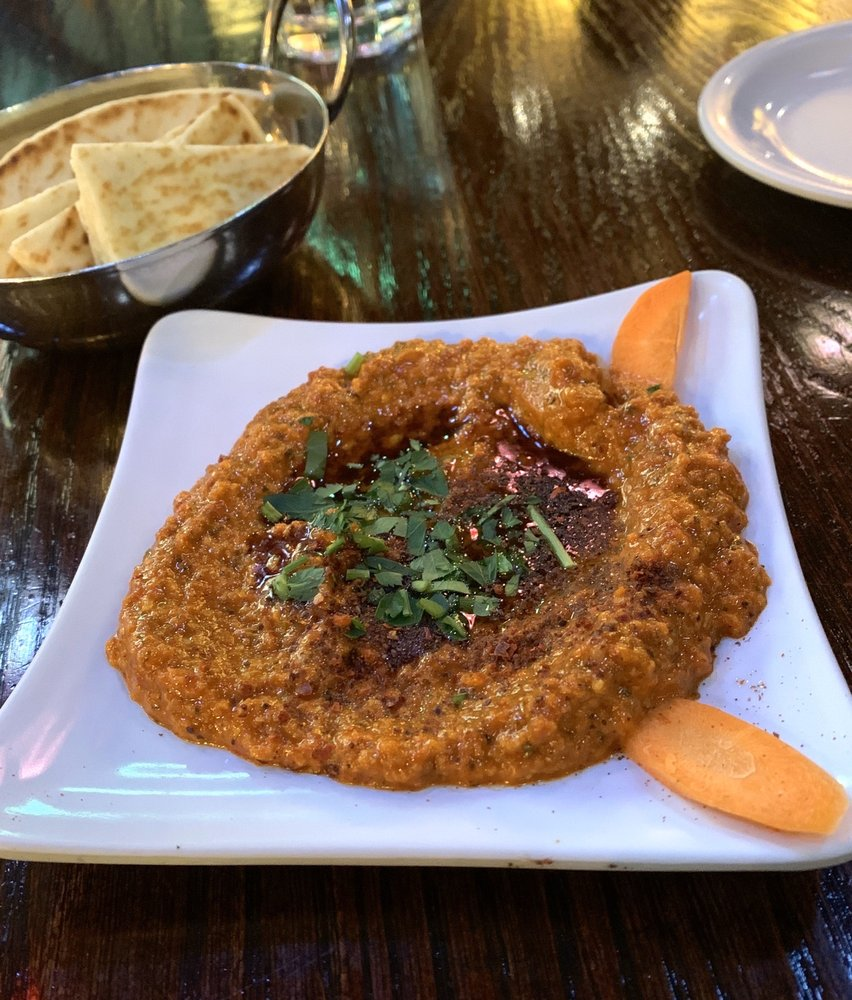
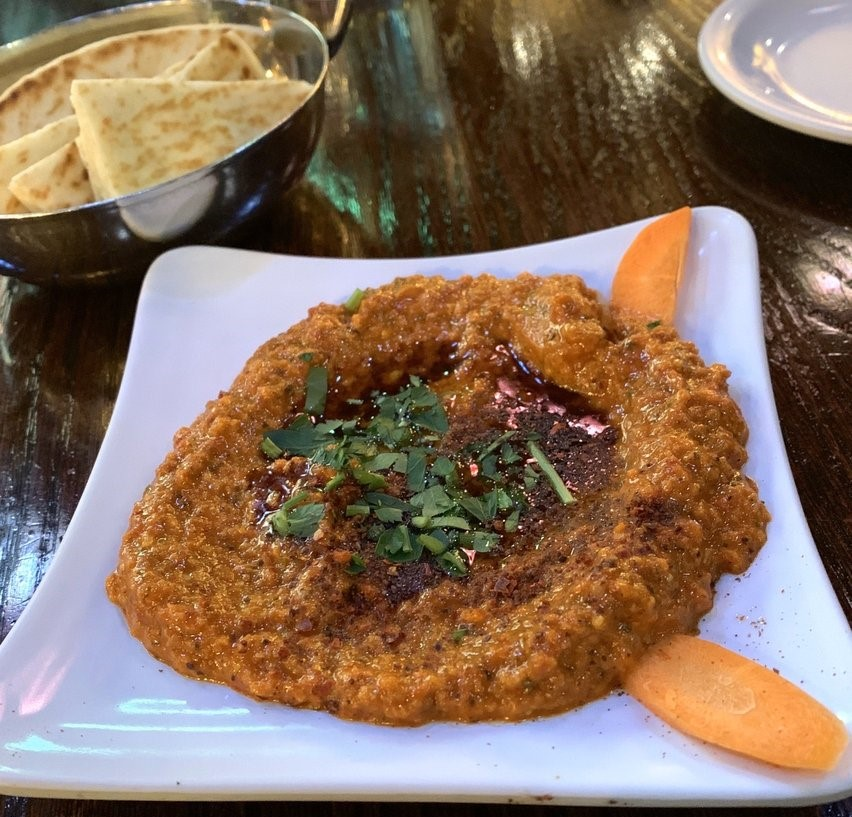
added images and bookmark button

diff --git a/app.js b/app.js
@@ -7,21 +7,21 @@ let allFavorites = [];
 // array for all the restaurant objects
 let allRestaurants = [
 // using constructor functions to create restaurants
-new Restaurant ("Shiro\'s", "Japanese", "2401 2nd Ave. Seattle, WA 98121", ['vegan', 'vegetarian'], 'Any'),
-new Restaurant ("Ishoni Yakiniku", "Japanese", "2401 2nd Ave. Seattle, WA 98121", ['vegan', 'vegetarian', 'gluten-free'], 'Any'),
-new Restaurant ("Kizuki Ramen", "Japanese", "320 E. Pine St. Seattle, WA 98122", ['vegan', 'vegetarian'], 'Any'),
-new Restaurant ("Fogon Cocina", "Mexican", "600 E. Pine St. Seattle, WA 98122", ['vegan', 'vegetarian'], 'Any'),
-new Restaurant ("Fonda la Catrina", "Mexican", "5905 Airport Way S. Seattle, WA 98108", ['vegan', 'vegetarian'], 'Any'),
-new Restaurant ("La Carta de Oaxaca", "Mexican", "5431 Ballard Ave. Seattle, WA 98107", ['vegan', 'vegetarian'], 'Any'),
-new Restaurant ("Cafe Turko", "Mediterranean", "750 N. 34th St., Seattle, WA 98103", ['vegan', 'vegetarian'], 'Any'),
-new Restaurant ("Momnoon", "Mediterranean", "1508 Melrose Ave. Seattle, WA 98122", ['vegan', 'vegetarian'], 'Any'),
-new Restaurant ("Petra Bistro", "Mediterranean", "2501 4th Ave., Seattle, WA 98121", ['vegan', 'vegetarian'], 'Any'),
-new Restaurant ("Taste of India", "Indian", "5517 Roosevelt Way, Seattle, WA 98105",['vegan', 'vegetarian'], 'Any'),
-new Restaurant ("Daawat Grill", "Indian", "820 Pike St., Seattle, WA 98101", ['vegan', 'vegetarian'], 'Any'),
-new Restaurant ("Nirmal\'s", "Indian", "106 Occidental Ave., Seattle, WA 98104", ['vegan', 'vegetarian'], 'Any'),
-new Restaurant ("Applebee\'s", "American", "13856 Bel Red Rd., Bellevue, WA 90005", ['gluten-free'], 'Any'),
-new Restaurant ("Denny\'s", "American", "2762 4th Ave., Seattle, WA 98134", ['gluten-free'], 'Any'),
-new Restaurant ("Red Lobster", "American", "4231 196th St., Lynwood, WA 98036", ['gluten-free'], 'Any'),
+new Restaurant ("Shiro\'s", 'imgs/geoDuck_shiro.jpeg',"Japanese", "2401 2nd Ave. Seattle, WA 98121", ['vegan', 'vegetarian'], 'Any'),
+new Restaurant ("Ishoni Yakiniku", 'imgs/japaneseWagyu_ishoni.jpeg', "Japanese", "2401 2nd Ave. Seattle, WA 98121", ['vegan', 'vegetarian', 'gluten-free'], 'Any'),
+new Restaurant ("Kizuki Ramen", 'imgs/spicyramen_kizuki.jpeg', "Japanese", "320 E. Pine St. Seattle, WA 98122", ['vegan', 'vegetarian'], 'Any'),
+new Restaurant ("Fogon Cocina", 'imgs/streetTacos_fogon.jpeg', "Mexican", "600 E. Pine St. Seattle, WA 98122", ['vegan', 'vegetarian'], 'Any'),
+new Restaurant ("Fonda la Catrina", 'imgs/chileRelleno_catrina.jpeg', "Mexican", "5905 Airport Way S. Seattle, WA 98108", ['vegan', 'vegetarian'], 'Any'),
+new Restaurant ("La Carta de Oaxaca", 'imgs/birria_oaxaca.jpeg', "Mexican", "5431 Ballard Ave. Seattle, WA 98107", ['vegan', 'vegetarian'], 'Any'),
+new Restaurant ("Cafe Turko", 'imgs/muhammara_turko.jpeg',  "Mediterranean", "750 N. 34th St., Seattle, WA 98103", ['vegan', 'vegetarian'], 'Any'),
+new Restaurant ("Momnoon", 'imgs/friedCauli_mamnoon.jpeg', "Mediterranean", "1508 Melrose Ave. Seattle, WA 98122", ['vegan', 'vegetarian'], 'Any'),
+new Restaurant ("Petra Bistro", 'imgs/mezzaTray_petra.jpeg', "Mediterranean", "2501 4th Ave., Seattle, WA 98121", ['vegan', 'vegetarian'], 'Any'),
+new Restaurant ("Taste of India", 'imgs/samosa_india.jpeg', "Indian", "5517 Roosevelt Way, Seattle, WA 98105",['vegan', 'vegetarian'], 'Any'),
+new Restaurant ("Daawat Grill", 'imgs/vegetableKofta_daawat.jpeg', "Indian", "820 Pike St., Seattle, WA 98101", ['vegan', 'vegetarian'], 'Any'),
+new Restaurant ("Nirmal\'s", 'imgs/crabCurry_nirmals.jpeg', "Indian", "106 Occidental Ave., Seattle, WA 98104", ['vegan', 'vegetarian'], 'Any'),
+new Restaurant ("Applebee\'s", 'imgs/chickenWontonTacos_apple.jpeg', "American", "13856 Bel Red Rd., Bellevue, WA 90005", ['gluten-free'], 'Any'),
+new Restaurant ("Denny\'s", 'imgs/moonsOverMyHammy_dennys.jpeg', "American", "2762 4th Ave., Seattle, WA 98134", ['gluten-free'], 'Any'),
+new Restaurant ("Red Lobster", 'imgs/endlessShrimp_redLobster.jpeg', "American", "4231 196th St., Lynwood, WA 98036", ['gluten-free'], 'Any'),
 ];
 
 
@@ -29,8 +29,9 @@ new Restaurant ("Red Lobster", "American", "4231 196th St., Lynwood, WA 98036", 
 
 // constructor function for creating restaurants
 
-function Restaurant (name, cuisine, address, preferences, any){
+function Restaurant (name, src, cuisine, address, preferences, any){
   this.name = name;
+  this.src = src;
   this.cuisine = cuisine;
   this.address = address; 
   this.preferences = preferences;
@@ -43,6 +44,7 @@ function Restaurant (name, cuisine, address, preferences, any){
 
 //--------------------FUNCTIONS
 
+// need to work on this function to push restaurant object into allFavorite array 
 function bookmark (){
   allFavorites.push();
 }
@@ -103,22 +105,31 @@ results.innerHTML = '';
   
       let title = document.createElement('li');
       title.setAttribute('id', 'restaurantTitle');
-      // let img = document.createElement('li');
+
+      let img = document.createElement('li');
+      let createImg = document.createElement('img');
+      createImg.setAttribute('src', `${allRestaurants[i].src}`);
+      createImg.setAttribute('id', 'foodImgs');
+      img.appendChild(createImg);
+
       let address = document.createElement('li');
       let categories = document.createElement('li');
+
       let favorites = document.createElement('li');
       let input = document.createElement('button');
+
+      //Referencing bookmark function when clicked
       input.setAttribute('onclick', 'bookmark()');
       input.setAttribute('id', 'favorites');
       input.innerText = 'Bookmark';
       favorites.appendChild(input);
 
       title.innerText = allRestaurants[i].name;
-      // img.innerText = 
       address.innerText = allRestaurants[i].address;
       categories.innerText = `${allRestaurants[i].cuisine}, ${allRestaurants[i].preferences}`;
 
       restaurant.appendChild(title);
+      restaurant.appendChild(img);
       restaurant.appendChild(address);
       restaurant.appendChild(categories);
       restaurant.appendChild(favorites);
@@ -129,8 +140,6 @@ results.innerHTML = '';
 }
 
 //--------------------FUNCTION CALLS
-
-
 
 // function for rendering objects
 

diff --git a/style.css b/style.css
@@ -36,11 +36,11 @@ body > footer {
     font-family: 'Pacifico', cursive;;
 }
 
-li {
+#header li {
     display: inline-block;
     padding: 10px;
     margin-top: 15px;
-}
+} 
 
 #header a {
     text-decoration: none;
@@ -268,4 +268,32 @@ footer {
 @keyframes fade {
   from {opacity: .4}
   to {opacity: 1}
+}
+
+/* food menu */
+
+#foodImgs {
+    width: 350px;
+}
+
+#restaurantTitle {
+    font-size: 35px;
+    font-family: 'Pacifico', cursive;
+    margin-bottom: 15px;
+}
+
+#restaurantOptions {
+    line-height: 28px;
+    list-style: none;
+    display: inline-block;
+}
+
+#favorites {
+    color: gray;
+    background-color: #BFD8D5;
+    border: none;
+    height: 30px;
+    width: 100px;
+    font-size: 18px;
+    letter-spacing: 1px;
 }
